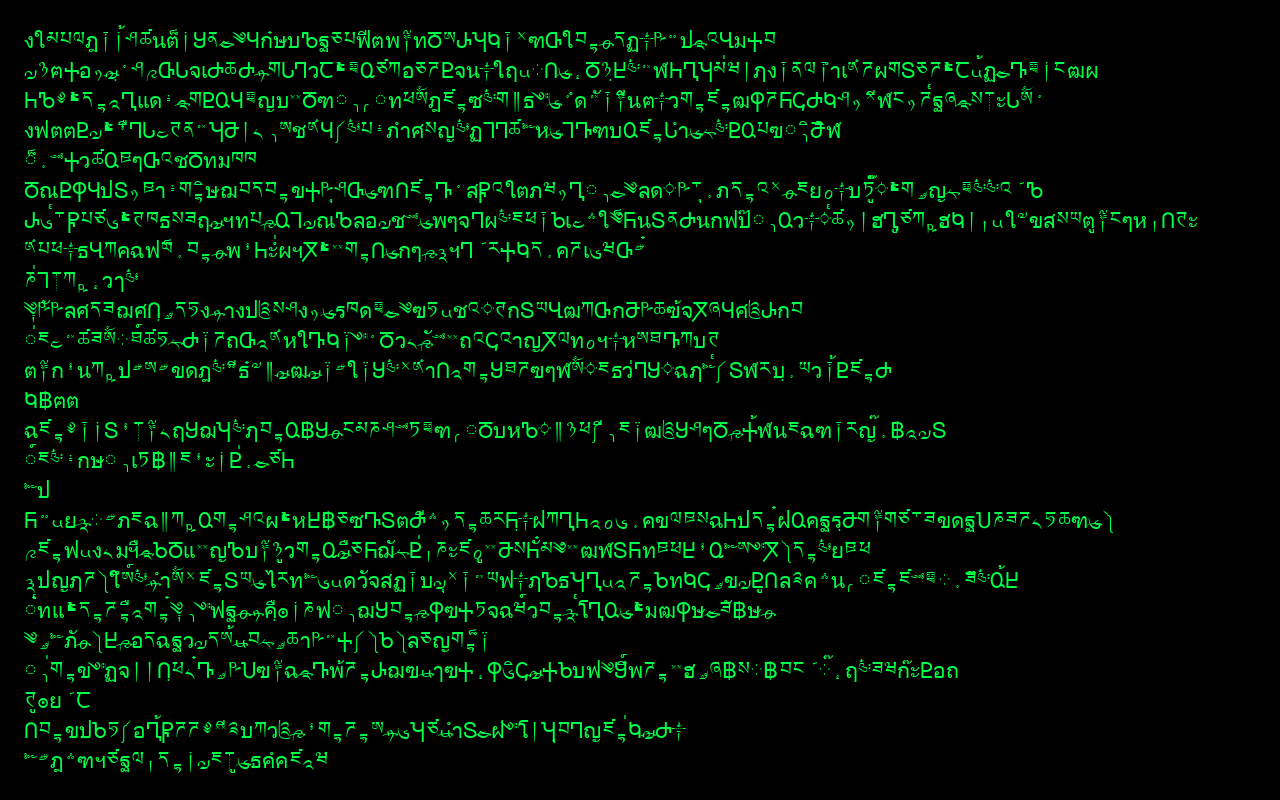
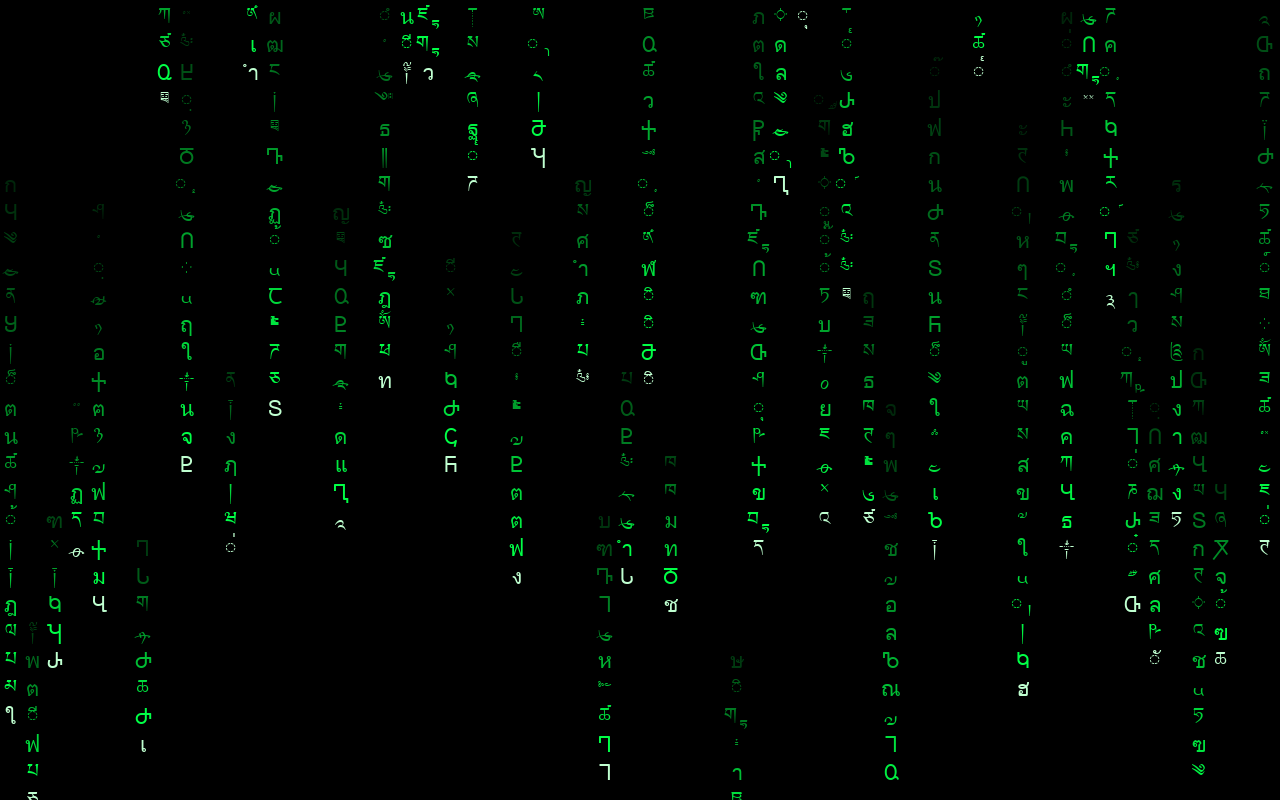
Add Canvas-based Matrix rain mode (v2.1.0)
- New `rain` mode: falling columns of glyphs with a bright near-white head
  and a fading, --color-tinted trail; columns vary in speed and length
- Split renderers: rain on Canvas, existing text modes on Text
- Update README (modes table, usage, how-it-works, history) and replace the
  screenshot with a real rain frame

diff --git a/runtasciic.py b/runtasciic.py
@@ -2,17 +2,18 @@
 # -*- coding: utf-8 -*-
 """RunTASCIIc -- a tiny "digital rain" screensaver.
 
-Opens a full-screen black window, picks a random colour and a random visual
-mode, and streams characters down the screen. Press any key to lock the screen
-and quit.
+Opens a full-screen black window, picks a colour and a visual mode, and either
+rains glyphs down in falling columns (Matrix-style) or streams random lines of
+text. Press any key to lock the screen and quit.
 
 Originally a Python 2 / Tkinter exercise; rewritten for Python 3 to run on
 macOS and Linux (and Windows too).
 
 Usage:
-    python3 runtasciic.py
-    python3 runtasciic.py --mode binary --color green
-    python3 runtasciic.py --no-lock        # don't lock the screen on exit
+    python3 runtasciic.py                      # random mode + colour
+    python3 runtasciic.py --mode rain --color green
+    python3 runtasciic.py --mode binary
+    python3 runtasciic.py --no-lock            # don't lock the screen on exit
 """
 
 import argparse
@@ -21,9 +22,10 @@ import random
 import string
 import subprocess
 import tkinter as tk
+import tkinter.font as tkfont
 
 __author__ = "Vadim Toptunov"
-__version__ = "2.0.0"
+__version__ = "2.1.0"
 
 BANNER = r'''
 88888888ba                     888888888888   db        ad88888ba    ,ad8888ba,  88 88   ,ad8888ba,
@@ -48,6 +50,20 @@ UNICODE_RANGES = (
 
 COLORS = ("red", "green", "blue", "violet", "white", "yellow", "cyan", "orange")
 
+# Base RGB used to tint the rain (and its bright head).
+COLOR_RGB = {
+    "red": (255, 60, 60),
+    "green": (0, 255, 70),
+    "blue": (90, 130, 255),
+    "violet": (200, 120, 255),
+    "white": (235, 235, 235),
+    "yellow": (255, 235, 60),
+    "cyan": (60, 255, 235),
+    "orange": (255, 160, 40),
+}
+
+MODES = ("rain", "unicode", "ascii", "binary", "slash")
+
 
 def _unicode_pool():
     """Every printable code point from the exotic blocks above, as a string."""
@@ -58,6 +74,23 @@ def _unicode_pool():
             if ch.isprintable():
                 chars.append(ch)
     return "".join(chars)
+
+
+def rain_gradient(base, length):
+    """A list of `length` hex colours: bright/near-white head fading to dark.
+
+    Index 0 is the head (base blended toward white); later indices fade the
+    base colour toward black along the trailing tail.
+    """
+    r, g, b = base
+    colors = [f"#{int(r + (255 - r) * 0.75):02x}"
+              f"{int(g + (255 - g) * 0.75):02x}"
+              f"{int(b + (255 - b) * 0.75):02x}"]
+    for i in range(1, length):
+        # fade from full brightness (i==1) down to ~10% at the tail
+        f = 1.0 - (i - 1) / max(length - 1, 1) * 0.9
+        colors.append(f"#{int(r * f):02x}{int(g * f):02x}{int(b * f):02x}")
+    return colors
 
 
 def lock_screen():
@@ -100,25 +133,27 @@ def lock_screen():
 
 
 class Screensaver:
-    """A full-screen Tkinter window that streams random text downward."""
+    """A full-screen Tkinter window: Matrix-style rain or streaming text."""
 
     MAX_LINES = 200          # cap the text buffer so memory stays bounded
     MAX_LINE_LEN = 140       # longest generated line
+    RAIN_INTERVAL = 70       # ms per rain frame
+    RAIN_FONT_SIZE = 20
 
     def __init__(self, mode=None, color=None, lock=True):
         self.lock = lock
         self._unicode_chars = _unicode_pool()
 
-        # name -> (generator, interval_ms)
-        self._modes = {
+        # text modes: name -> (generator, interval_ms)
+        self._text_modes = {
             "unicode": (self._gen_unicode, 250),
             "ascii": (self._gen_ascii, 250),
             "binary": (self._gen_binary, 120),
             "slash": (self._gen_slash, 120),
         }
 
-        self.mode = mode if mode in self._modes else random.choice(list(self._modes))
-        chosen_color = color if color in COLORS else random.choice(COLORS)
+        self.mode = mode if mode in MODES else random.choice(MODES)
+        self.color_name = color if color in COLORS else random.choice(COLORS)
 
         self.root = tk.Tk()
         self.root.title(f"RunTASCIIc v{__version__}")
@@ -126,21 +161,26 @@ class Screensaver:
         self.root.attributes("-fullscreen", True)
         self.root.bind("<Key>", self._on_key)
 
+        self._after_id = None
+        if self.mode == "rain":
+            self._build_rain()
+        else:
+            self._build_text()
+
+    # -- text renderer -----------------------------------------------------
+
+    def _build_text(self):
         self.text = tk.Text(
             self.root,
             font="Courier 20",
             bg="black",
-            fg=chosen_color,
+            fg=self.color_name,
             bd=0,
             highlightthickness=0,
             cursor="none",
             wrap="char",
         )
         self.text.pack(expand=True, fill="both")
-
-        self._after_id = None
-
-    # -- content generators ------------------------------------------------
 
     def _gen_unicode(self):
         n = random.randint(1, self.MAX_LINE_LEN)
@@ -162,10 +202,8 @@ class Screensaver:
         n = random.randint(1, self.MAX_LINE_LEN)
         return "".join(random.choice(symbols) for _ in range(n))
 
-    # -- animation loop ----------------------------------------------------
-
     def _tick(self):
-        generate, interval = self._modes[self.mode]
+        generate, interval = self._text_modes[self.mode]
         self.text.insert(tk.END, generate() + "\n")
         self._trim()
         self.text.see(tk.END)
@@ -177,6 +215,81 @@ class Screensaver:
         if last > self.MAX_LINES:
             self.text.delete("1.0", f"{last - self.MAX_LINES}.0")
 
+    # -- rain renderer -----------------------------------------------------
+
+    def _build_rain(self):
+        self.width = self.root.winfo_screenwidth()
+        self.height = self.root.winfo_screenheight()
+
+        self.canvas = tk.Canvas(
+            self.root, bg="black", bd=0, highlightthickness=0, cursor="none"
+        )
+        self.canvas.pack(expand=True, fill="both")
+
+        self.rain_font = tkfont.Font(
+            family="Courier", size=self.RAIN_FONT_SIZE, weight="bold"
+        )
+        self.cell_w = max(self.rain_font.measure("W"), 8)
+        self.cell_h = max(self.rain_font.metrics("linespace"), 8)
+        self.rows = self.height // self.cell_h + 2
+        self.base = COLOR_RGB.get(self.color_name, COLOR_RGB["green"])
+
+        # One falling drop per column; each item is anchored at the column's x,
+        # so glyph width never breaks column alignment.
+        self._columns = []
+        n_cols = self.width // self.cell_w
+        for i in range(n_cols):
+            self._columns.append(self._new_column(i, warm_start=True))
+
+    def _new_column(self, index, warm_start=False):
+        trail = random.randint(6, 24)
+        start = -random.randint(0, self.rows) if warm_start else -random.randint(0, trail)
+        return {
+            "index": index,
+            "x": index * self.cell_w + self.cell_w // 2,
+            "y": start,                       # head row (may be above screen)
+            "trail": trail,
+            "step": random.choice((1, 1, 2, 2, 3)),  # ticks per row -> speed
+            "items": [],                      # canvas ids, oldest first
+            "colors": rain_gradient(self.base, trail),
+        }
+
+    def _rain_tick(self):
+        self._frame += 1
+        c = self.canvas
+        for i, col in enumerate(self._columns):
+            if self._frame % col["step"] != 0:
+                continue
+
+            row = col["y"]
+            col["y"] += 1
+            item = c.create_text(
+                col["x"], row * self.cell_h,
+                text=random.choice(self._unicode_chars),
+                fill=col["colors"][0],
+                font=self.rain_font,
+                anchor="n",
+            )
+            col["items"].append(item)
+
+            # keep only the trail; drop the glyph that fell off the tail
+            while len(col["items"]) > col["trail"]:
+                c.delete(col["items"].pop(0))
+
+            # recolour the trail: head bright, tail fading to dark
+            n = len(col["items"])
+            for j, it in enumerate(col["items"]):
+                dist = (n - 1) - j          # 0 == head
+                c.itemconfigure(it, fill=col["colors"][min(dist, col["trail"] - 1)])
+
+            # recycle the column once its head is well past the bottom
+            if row * self.cell_h > self.height + col["trail"] * self.cell_h:
+                for it in col["items"]:
+                    c.delete(it)
+                self._columns[i] = self._new_column(col["index"])
+
+        self._after_id = self.root.after(self.RAIN_INTERVAL, self._rain_tick)
+
     # -- lifecycle ---------------------------------------------------------
 
     def _on_key(self, _event):
@@ -187,8 +300,12 @@ class Screensaver:
         self.root.destroy()
 
     def run(self):
-        _, interval = self._modes[self.mode]
-        self._after_id = self.root.after(interval, self._tick)
+        if self.mode == "rain":
+            self._frame = 0
+            self._after_id = self.root.after(self.RAIN_INTERVAL, self._rain_tick)
+        else:
+            _, interval = self._text_modes[self.mode]
+            self._after_id = self.root.after(interval, self._tick)
         self.root.mainloop()
 
 
@@ -198,7 +315,7 @@ def parse_args():
     )
     parser.add_argument(
         "--mode",
-        choices=("unicode", "ascii", "binary", "slash"),
+        choices=MODES,
         help="Visual mode (default: random).",
     )
     parser.add_argument(

diff --git a/README.md b/README.md
@@ -13,14 +13,14 @@
 
 A tiny "digital rain" screensaver, written as a Python GUI exercise.
 
-It opens a full-screen black window, picks a random colour and a random visual
-mode, and streams characters down the screen. Press **any key** to lock the
-screen and quit.
+It opens a full-screen black window, picks a colour and a visual mode, and
+either **rains glyphs down in falling columns** (Matrix-style) or streams random
+lines of text. Press **any key** to lock the screen and quit.
 
 Originally a Python 2 / Tkinter toy; now rewritten for **Python 3** and runs on
 macOS and Linux (and Windows too).
 
-![RunTASCIIc in unicode mode](assets/screenshot.png)
+![RunTASCIIc in rain mode](assets/screenshot.png)
 
 ## Contents
 
@@ -33,14 +33,17 @@ macOS and Linux (and Windows too).
 
 ## Modes
 
-| Mode      | What it streams                                              |
-|-----------|-------------------------------------------------------------|
-| `unicode` | glyphs from the Runic, Georgian, Tibetan, Thai & Khmer blocks |
-| `ascii`   | random printable ASCII                                       |
-| `binary`  | a stream of `0`, `1` and spaces                             |
-| `slash`   | slashes and assorted symbols                                 |
+| Mode      | What it does                                                  |
+|-----------|---------------------------------------------------------------|
+| `rain`    | Matrix-style falling columns of glyphs with bright heads and fading tails |
+| `unicode` | streams lines of glyphs from the Runic, Georgian, Tibetan, Thai & Khmer blocks |
+| `ascii`   | streams lines of random printable ASCII                       |
+| `binary`  | streams lines of `0`, `1` and spaces                          |
+| `slash`   | streams lines of slashes and assorted symbols                 |
 
-When no mode is given, one is picked at random.
+When no mode is given, one is picked at random. In `rain` mode `--color` tints
+the drops (green by default); the head glyph is a bright, near-white version of
+that colour.
 
 ## Requirements
 
@@ -60,13 +63,14 @@ python3 -c "import tkinter; print(tkinter.TkVersion)"
 
 ```sh
 python3 runtasciic.py                       # random mode + colour, locks on exit
-python3 runtasciic.py --mode binary --color green
+python3 runtasciic.py --mode rain --color green
+python3 runtasciic.py --mode binary
 python3 runtasciic.py --no-lock             # don't lock the screen on exit
 ```
 
 Options:
 
-- `--mode {unicode,ascii,binary,slash}` — visual mode (default: random)
+- `--mode {rain,unicode,ascii,binary,slash}` — visual mode (default: random)
 - `--color {red,green,blue,violet,white,yellow,cyan,orange}` — text colour (default: random)
 - `--no-lock` — skip locking the screen when exiting
 
@@ -75,12 +79,17 @@ the way out.
 
 ## How it works
 
-- A single `Screensaver` class owns the full-screen Tk window and a `Text`
-  widget rendered in monospaced `Courier`.
-- Each mode is a small generator that returns one line of characters; a
-  `root.after()` loop appends a line, auto-scrolls, and reschedules itself.
-- The text buffer is capped (`MAX_LINES`), so old lines are trimmed and memory
-  stays bounded no matter how long it runs.
+- A single `Screensaver` class owns the full-screen Tk window and drives one of
+  two renderers on a self-rescheduling `root.after()` loop.
+- **Rain** uses a `Canvas`: one falling drop per column. Each frame draws a new
+  glyph at the head, recolours the trail from a bright near-white head down a
+  fading gradient, trims glyphs off the tail, and recycles a column once it
+  leaves the screen. Columns advance at slightly different speeds for an organic
+  look.
+- **Text** modes use a `Text` widget: each mode is a small generator that
+  returns one line of characters, appended and auto-scrolled every tick. The
+  buffer is capped (`MAX_LINES`) so memory stays bounded no matter how long it
+  runs.
 - On exit, `lock_screen()` tries platform-appropriate lock commands in order
   (macOS `CGSession`/`pmset`, Linux `loginctl`/`xdg-screensaver`/…, Windows
   `rundll32`) and never raises if none are available.
@@ -88,8 +97,10 @@ the way out.
 ## History
 
 Started life as a Python 2 GUI-programming exercise (`RunTASCIIc-v-1.0.3.py`).
-Version 2.0.0 is a full Python 3 rewrite: class-based, cross-platform, with CLI
-flags and a bounded buffer. The old file-reading mode was dropped.
+Version 2.0.0 was a full Python 3 rewrite: class-based, cross-platform, with CLI
+flags and a bounded buffer (the old file-reading mode was dropped). Version
+2.1.0 added the `Canvas`-based `rain` mode, so the "digital rain" name is finally
+true.
 
 ## License
 